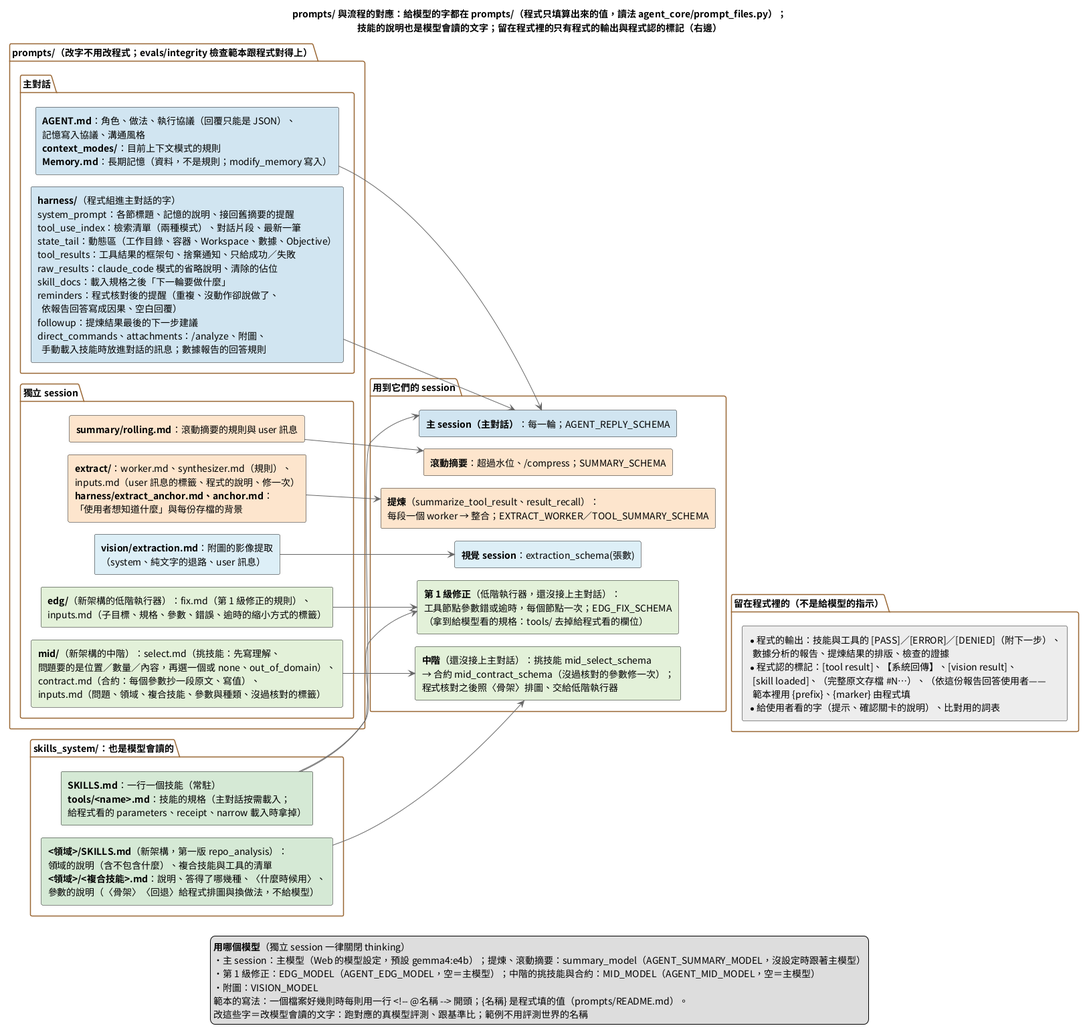
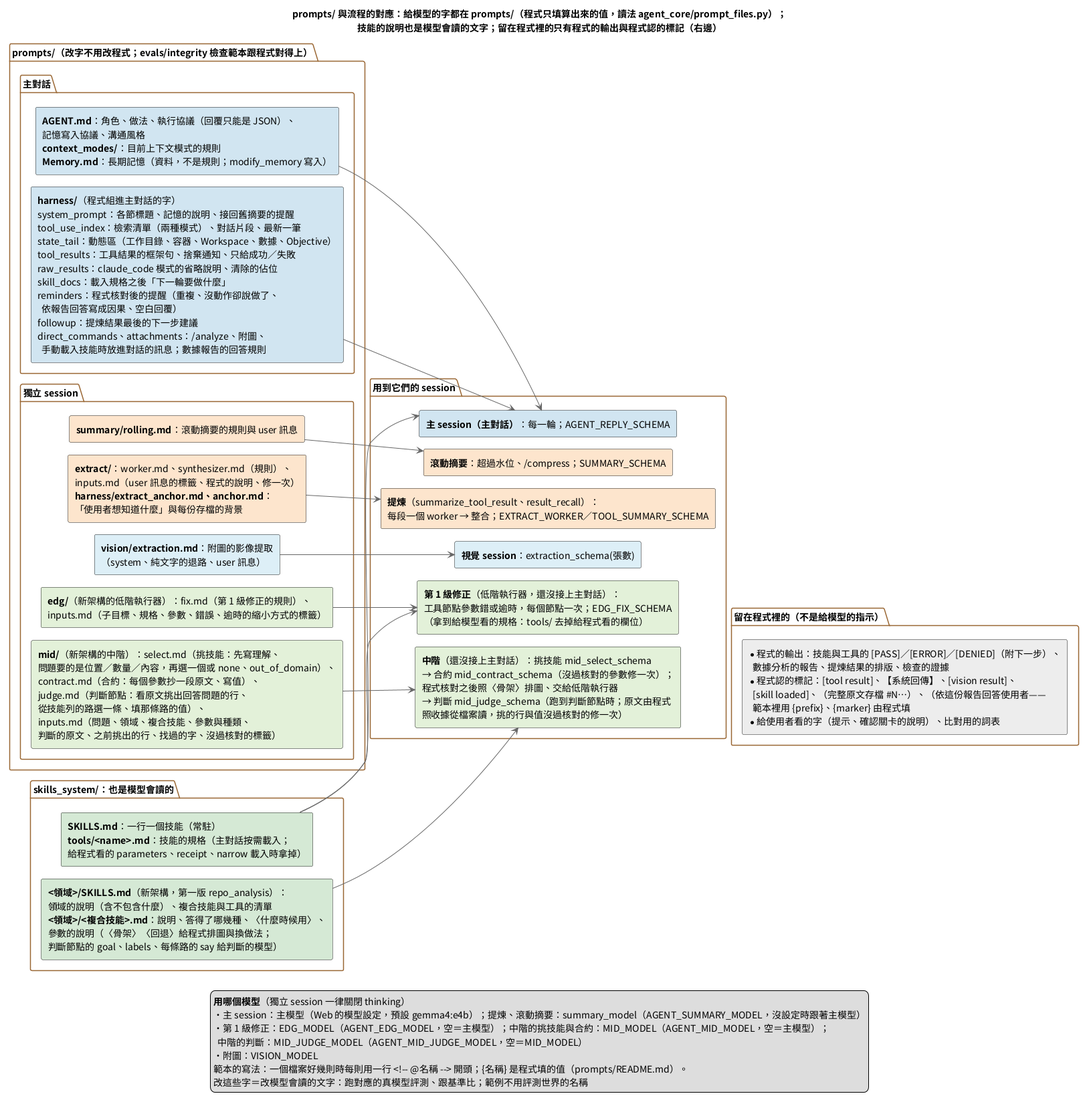
Enhance documentation and self-test assertions
- Updated the documentation for the fourth step draft, detailing the high-level integration with the main dialogue and outlining the necessary components and processes.
- Added assertions in the self-test for the `ca` function to ensure that English phrases can include spaces and that invalid characters (like '|') are correctly flagged in error messages.

Changed region(s): [[0.0, 0.0, 0.803, 0.991], [0.6485, 0.5265, 1.0, 0.7123], [0.9883, 0.6813, 1.0, 0.7123]]

diff --git a/evals/mid/selftest.py b/evals/mid/selftest.py
@@ -228,6 +228,10 @@ def main():
         assert ca({"name": "path", "type": "path"}, "src/beta/", work) == ("src/beta", None)
         assert "找不到" in ca({"name": "path", "type": "path"}, "nowhere", work)[1]
         assert ca({"name": "n", "type": "name"}, "a.b", work)[1] and ca({"name": "n", "type": "names"}, "a、b", work) == (["a", "b"], None)
+        words = {"name": "w", "type": "words"}
+        assert ca(words, "frame id、cam_driver", work) == (["frame id", "cam_driver"], None), "搜尋的字：英文的詞組中間可以有空白"
+        bad = ca(words, "a|b", work)[1]
+        assert bad and "不含 |" in bad and "不含空白" not in bad, bad
 
     def t_expand():
         nodes = [{"id": "f", "if": "files", "tool": "find_file", "args": ["{files}", "{path}"]},

diff --git a/agent_core/mid.py b/agent_core/mid.py
@@ -471,7 +471,7 @@ def check_answer(p, answer, cwd):
     if t == "words":
         items = judge.words_of(a)
         ok = items and all(judge.WORD.match(x) and not x.startswith("-") for x in items)
-        return (items, None) if ok else (None, "每一個字不含空白與 |（好幾個用「、」分開）")
+        return (items, None) if ok else (None, "每一個字只用文字、數字與 . / : @ ~ -（英文的詞組中間可以有一個空白），不以 - 開頭、不含 | 與括號；好幾個用「、」分開")
     return a, None
 
 

diff --git a/doc/架構說明.md b/doc/架構說明.md
@@ -241,22 +241,23 @@ web_console.py    → web_app/server.py 的 main()                   （python3 
 | `archive.py` | 181 | `ArchiveMixin`：原文存檔 `_archive_tool_result`（有收據時另存 `<…>.receipt.json`，`receipt_file`）、附圖分析存檔 `archive_vision_result`、`index.md`（寫入上鎖 `ARCHIVE_LOCK`）、保留上限 `_prune_tool_results`（工具回傳、對話片段、附圖分析分開算；照編號排；收據一起刪 `_remove_with_receipt`）、`_max_archived_id`（跨 session 續編）、`result_file_path`（Web 開原文用） |
 | `trajectory.py` | 125 | `TrajectoryMixin`：`_next_id`（全域配號）、`_record_trajectory`（每執行一支腳本記一筆、有收據時記摘要、觸發存檔）、起點（/clear）、`/trajectory` 的顯示；同時追加到 `logs/trajectory.jsonl` |
 | `skill_spec.py` | 121 | 技能規格裡給程式看的部分（frontmatter 裡一行 JSON 的 `parameters`、`receipt`、`narrow`，複合技能另有 `topology`、`answers` 與正文的〈骨架〉〈回退〉，`MACHINE_SECTIONS`）：`for_model`（交給模型前拿掉）、`contract`（讀成 dict）、`script`（技能執行的腳本）、`sections`（正文的各節）、`composite`（複合技能讀成 dict）；純函式 |
-| `edg.py` | 663 | 新架構的低階執行器（第 15 節）：`validate`（檢查圖）、`Executor`（`start`／`resume`：照圖執行、守門、第 1 級、往上交、存檔；`replan`：中階的第 2 級換成新的圖，跑過的不重跑）、`ModelFixer`（第 1 級修正的模型呼叫）、`parse`（腳本的 `parse_args`）、`narrowed`／`widened`（核對修正）；還沒接上主對話 |
-| `mid.py` | 823 | 新架構的中階（第 16 節）：`load_domain`（領域的 `SKILLS.md` 與複合技能）、`validate_skill`（複合技能的規格寫得對不對）、`expand_nodes`（〈骨架〉代入參數排成圖）、`verify_param`／`check_answer`（合約的值與使用者的回答由程式核對）、`Worker`（`start`／`resume`：挑技能、合約、補參數、交給低階、第 2 級、報告、存檔）、`ModelCaller`（挑技能與合約的模型呼叫）、`REPORTERS`（照收據整理報告的工具）；還沒接上主對話 |
+| `edg.py` | 666 | 新架構的低階執行器（第 15 節）：`validate`（檢查圖）、`Executor`（`start`／`resume`：照圖執行、守門、第 1 級、往上交、存檔；`replan`：中階的第 2 級與判斷換成新的圖，跑過的不重跑，重跑的收據照版本另存）、`ModelFixer`（第 1 級修正的模型呼叫）、`parse`（腳本的 `parse_args`）、`narrowed`／`widened`（核對修正）；還沒接上主對話 |
+| `mid.py` | 1273 | 新架構的中階（第 16 節）：`load_domain`（領域的 `SKILLS.md` 與複合技能；換技能的對象與參數的對應 `_switch_problems`）、`validate_skill`（複合技能的規格寫得對不對，含判斷節點 `_judgment_problems`）、`expand_nodes`（〈骨架〉代入參數排成圖）、`verify_param`／`check_answer`（合約的值與使用者的回答由程式核對）、`Worker`（`start`／`resume`：挑技能、合約、補參數、交給低階、第 2 級與換技能 `_switch`、判斷節點 `_judgment`（交給模型的原文、挑行選路 `_judge`、選的路會不會有新的結果 `_stale`、接著排下一版 `_next_round`）、報告、存檔）、`ModelCaller`（挑技能、合約與判斷的模型呼叫）、`REPORTERS`（照收據整理報告的工具）；還沒接上主對話 |
+| `judge.py` | 263 | 新架構的中階的判斷節點：原文與核對（第 16 節）——`rows`（照收據從檔案讀原文的行：search_text 的命中與前後行、view_file 看的那一段；不解析給模型的文字）、`select`／`render`（交給模型的原文：含最多個搜尋字的命中先放，最多 `MID_JUDGE_CHARS` 字，放不下的寫明省略幾行）、`check_line`（挑的行的片段在原文的某一行：不看格式、內容一樣的行用行號分；整行由程式填）、`check_params`（分支的參數在原文裡）；只讀檔案，不用 agent |
 | `compression.py` | 492 | `CompressionMixin`：`_split_for_compression`（保留區切點）、`summarize_messages`（滾動摘要 session）、使用者原話與對話片段存檔、`compress_context_to_file`、背景壓縮、`ensure_context_budget`（硬水位）、`_load_latest_summary_state`（啟動時接回） |
 | `model_caps.py` | 52 | 模型能力（Ollama `/api/show` 的 capabilities，依名稱快取）：`supports_thinking`、`think_arg`（使用者打開而且模型支援才送 think=True）、`thinking_text`（回應裡的思考內容）。主對話的 thinking 開關與 Web 的 🧠 設定都經過它 |
 | `perf.py` | 57 | `PerfMixin`：`_timed_chat`（獨立 session 呼叫模型都走這裡）、`_perf_record`（寫 `logs/perf.jsonl`） |
 | `turn.py` | 131 | CLI 與 Web 共用的回合函式：`_content_for_context`（工具回傳進主對話的幾條路）、`oversized_notice`、`context_kind`、`after_turn_compression`（軟水位）、`_append_discarded_tool_result` |
 | `protocol.py` | 112 | 回覆協議與訊息包裝：`parse_agent_reply`、`action_text`、`tool_result_message`、`attach_skill_docs`、`is_exempt_result` |
 | `prompt_files.py` | 82 | 讀 `prompts/` 的範本：`load(路徑, 段名, 名稱=值…)`——一個檔案好幾則時每則用 `<!-- @名稱 -->` 開頭、`{名稱}` 一次填完（其他大括號照留）、讀不到回空字串、檔案改了就重讀；`sections`、`fill`、`exists`。只依賴 `config`；寫法見 `prompts/README.md` |
-| `schemas.py` | 135 | Ollama `format=` schema：`AGENT_REPLY_SCHEMA`、`SUMMARY_SCHEMA`、`TOOL_SUMMARY_SCHEMA`（提煉的整合；事實附行號）、`EXTRACT_WORKER_SCHEMA`、`EDG_FIX_SCHEMA`（第 1 級修正：理由、修不修得好、參數）、`mid_select_schema`（中階挑技能：理解、問題要的種類、技能只能是清單裡的）、`mid_contract_schema`（合約：每個參數的原文與值），以及數據分析用的 |
-| `config.py` | 288 | 所有常數與環境變數（第 10 節），以及 `PROJECT_ROOT`（專案根目錄，`skills_system/`、`logs/` 都以它為準）、`PROMPTS_DIR`（`prompts/`：給模型的文字） |
+| `schemas.py` | 169 | Ollama `format=` schema：`AGENT_REPLY_SCHEMA`、`SUMMARY_SCHEMA`、`TOOL_SUMMARY_SCHEMA`（提煉的整合；事實附行號）、`EXTRACT_WORKER_SCHEMA`、`EDG_FIX_SCHEMA`（第 1 級修正：理由、修不修得好、參數）、`mid_select_schema`（中階挑技能：理解、問題要的種類、技能只能是清單裡的）、`mid_contract_schema`（合約：每個參數的原文與值）、`mid_judge_schema`（判斷：理解、挑的行（來源、檔案、行號、片段、標籤，都只能是列出的）、選的路只能是列的、那條路的值；修的時候只放沒過的部分），以及數據分析用的 |
+| `config.py` | 298 | 所有常數與環境變數（第 10 節），以及 `PROJECT_ROOT`（專案根目錄，`skills_system/`、`logs/` 都以它為準）、`PROMPTS_DIR`（`prompts/`：給模型的文字） |
 | `analysis_job.py` | 1054 | `AnalysisMixin`：數據分析（`analysis_run` 偽技能，全部由程式做）——事實（程式量全部 Topic）、重要的時間點與重點（照規則寫）、報告、設定、進度、job 檔案（`JobStore`，見第 13 節） |
 | `claims.py` | 535 | 句子的意思跟事實核對（主對話依數據分析報告的回答）：`reply_problems`、`problems`；純函式，只依賴 facts（見 13.3） |
 | `cli.py` | 355 | CLI：`main()`（slash 指令、回合迴圈、執行前確認、auto／hybrid／manual 決策）、`execute_turn`（一個回合）、`/analyze`（不經過模型選擇、直接執行） |
 
 依賴方向是單向的：`config`、`schemas`、`jobstore`、`claims`、`model_caps`、`skill_spec` 不依賴其他模組，`prompt_files` 只依賴 `config`、`protocol` 只依賴這兩個；給模型的字由各模組用 `prompt_files` 從 `prompts/` 讀（`vision/extraction.py`、`web_app/` 也是）；各 mixin 只依賴這些（`tool_summary` 用 `extract`、`turn_guard` 用 `claims`），另外 `compression`、`context_mode` 借用 `tool_use_index.tidy_hint` 這個純函式（`archive` 借用 `result_kind`；`tool_use_index` 寫入時在函式裡借用 `archive.ARCHIVE_LOCK`），mixin 類別之間不互相 import；`agent` 組合所有 mixin；`turn`、`cli` 在最上層。沒有循環 import。`edg` 只依賴 `config`、`schemas`、`jobstore`、`prompt_files`、`skill_spec`，透過傳進來的 agent 用 `run_script`、`guard_check`、`_timed_chat`；
-`mid` 另外只多依賴 `edg`（工具的執行全部交給它），自己透過 agent 用 `_timed_chat`。
+`mid` 另外只多依賴 `edg`（工具的執行全部交給它）與 `judge`（只依賴 `config`、`prompt_files`），自己透過 agent 用 `_timed_chat`。
 技能那一側只借用 `skills_system/scripts/` 的共用模組（`_results_common`、`_shell_common`）與各腳本的參數解析（關卡與低階執行器用）。
 
 ### 4.2 `web_app/`：網頁介面
@@ -270,8 +271,8 @@ web_console.py    → web_app/server.py 的 main()                   （python3 
 | `analysis.py` | 139 | 📊 數據分析面板的後端：`analysis_state`（`/api/analysis/state` 輪詢）、`analysis_file`、`analysis_action`（設定、目前的數據）、`/analysis*` 指令；`/analyze` 與 📊 分析模式的回合在 `flows.run_analysis_turn` |
 | `models.py` | 62 | 「🧠 模型」設定：`model_view`（主對話的模型與 thinking、Ollama 裡的模型、每個模型支不支援 thinking）、`model_update`（一次套用、存檔）、`describe`；`GET`／`POST /api/models` 與 `/model`、`/think` 指令共用 |
 | `static/index.html` | 1038 | 網頁本身（HTML／CSS／JS 都在這一個檔案，無外部依賴）；執行前確認列、標題列的上下文模式、目標容器、ROS 2 Workspace、目前的數據、「🔗 決策圖」的連結；右欄的「📊 數據分析」面板（`renderAnalysisPanel`）與檔案檢視視窗 |
-| `topology.py` | 322 | 🔗 決策圖的後端（新架構的中階與低階的工作，唯讀；不 import `state`）：`sources`（正式的 `logs/` 與評測結果）、`jobs`（中階的工作，加上沒有被中階用到的低階工作）、`job_view`（一個工作整理成每一版的圖：當時每個節點的狀態與嘗試，重排換掉的從低階的 `replans` 找回 `_state_at`；跟上一版比；回退與問使用者 `_marks`）、`receipt`（收據全文）；路徑由程式組，不合規則回 None（路由回 404）。`GET /api/topology/sources`、`jobs?src=`、`job?src=&ref=`、`receipt?src=&ref=&file=` |
-| `static/topology.html` | 873 | 決策圖的頁面 `/topology`（無外部依賴）：工作清單、流程列（挑技能 → 合約 → 補參數 → 每一版的圖 → 結果）、分層排的決策圖（HTML 節點＋SVG 邊；回退與問使用者畫成虛線）、點節點／邊／流程的細節；網址帶 `src`、`ref`、`v` |
+| `topology.py` | 345 | 🔗 決策圖的後端（新架構的中階與低階的工作，唯讀；不 import `state`）：`sources`（正式的 `logs/` 與評測結果）、`jobs`（中階的工作，加上沒有被中階用到的低階工作）、`job_view`（一個工作整理成每一版的圖：當時每個節點的狀態與嘗試，重排換掉的從低階的 `replans` 找回 `_state_at`；跟上一版比；回退、換技能與問使用者 `_marks`；每一版跑完時的判斷 `_judgments`，判斷加的節點在之後的每一版都從那個判斷節點畫虛線）、`receipt`（收據全文）；路徑由程式組，不合規則回 None（路由回 404）。`GET /api/topology/sources`、`jobs?src=`、`job?src=&ref=`、`receipt?src=&ref=&file=` |
+| `static/topology.html` | 986 | 決策圖的頁面 `/topology`（無外部依賴）：工作清單、流程列（挑技能 → 合約 → 補參數 → 每一版的圖（含判斷）→ 結果）、分層排的決策圖（HTML 節點＋SVG 邊；回退與問使用者畫成虛線；判斷節點是另一種節點 `judgmentNodeHtml`，從它到它加的節點畫青色虛線）、點節點／邊／流程的細節（判斷：挑出的行、沒過核對的、選的路與值、模型呼叫，`judgmentDetailHtml`）；網址帶 `src`、`ref`、`v` |
 
 各模組共用 `state.py` 裡的同一批物件（都是可變的 dict／物件，沒有任何地方重新賦值），所以拆開後大家看到的仍是同一份狀態。依賴方向：`flows` 與 `commands` 各自只依賴 `state`（和 `agent_core`），`server` 再把三者接起來。
 
@@ -279,7 +280,7 @@ web_console.py    → web_app/server.py 的 main()                   （python3 
 
 | 資料夾 | 內容 |
 |---|---|
-| `prompts/` | 給模型的文字，**全部**在這裡（可以直接改，不用改程式；每一個檔案給哪一種 session 見 `prompts/README.md` 與第 7 節的圖）：`AGENT.md`（主對話的 system prompt）、`Memory.md`（長期記憶）、`context_modes/`（兩種上下文模式的規則）、`harness/`（程式組進主對話的字：system prompt 各節、檢索清單、動態區、工具結果的包裝、載入規格的下一步、程式核對後的提醒、提煉的下一步建議、直接指令與附圖的訊息）、`summary/`（滾動摘要）、`extract/`（工具回傳的提煉：worker、整合、user 訊息的標籤）、`vision/`（附圖的影像提取）、`edg/`（低階執行器的第 1 級修正）、`mid/`（中階的挑技能與合約）。讀法在 `prompt_files.py`；留在程式裡的只有程式的輸出（工具結果、報告、`[ERROR]`）、程式認的標記與給使用者看的字。讀不到時程式不會報錯（內容是空的）：`evals/integrity/selftest.py` 檢查程式用到的每一則都在、填的名稱範本裡都有、沒有沒人用的一則 |
+| `prompts/` | 給模型的文字，**全部**在這裡（可以直接改，不用改程式；每一個檔案給哪一種 session 見 `prompts/README.md` 與第 7 節的圖）：`AGENT.md`（主對話的 system prompt）、`Memory.md`（長期記憶）、`context_modes/`（兩種上下文模式的規則）、`harness/`（程式組進主對話的字：system prompt 各節、檢索清單、動態區、工具結果的包裝、載入規格的下一步、程式核對後的提醒、提煉的下一步建議、直接指令與附圖的訊息）、`summary/`（滾動摘要）、`extract/`（工具回傳的提煉：worker、整合、user 訊息的標籤）、`vision/`（附圖的影像提取）、`edg/`（低階執行器的第 1 級修正）、`mid/`（中階的挑技能、合約與判斷）。讀法在 `prompt_files.py`；留在程式裡的只有程式的輸出（工具結果、報告、`[ERROR]`）、程式認的標記與給使用者看的字。讀不到時程式不會報錯（內容是空的）：`evals/integrity/selftest.py` 檢查程式用到的每一則都在、填的名稱範本裡都有、沒有沒人用的一則 |
 | `skills_system/` | 技能：`SKILLS.md`（索引，常駐 system prompt）、`tools/<name>.md`（規格，按需載入；第一版領域的規格另有給程式看的 `parameters`、`receipt`）、`scripts/`（腳本與共用模組；`_receipt_common.py` 是收據的共用層，見 3.8）；新架構的領域 `<領域>/`（`SKILLS.md`：領域的說明、複合技能與工具的清單；複合技能的規格；中階讀，第 16 節），第一版是 `repo_analysis/` |
 | `vision/` | 視覺模態：擷取、影像處理、推論、結構化提取、Web 的框選（`web/`）；`sniper.py` 是獨立的框選小工具（`python3 -m vision.sniper`） |
 | `evals/` | 評測（第 12 節）：`chat/`、`skills/`、`analysis/`、`datagen/`、`ops/`、`extract/`、`repo/`、`edg/`、`mid/`、`integrity/`；`phase_check.py`（每個階段結束時跑）與 `baselines/`（基準，進版控）；結果寫到 `evals/results/`（.gitignore） |
@@ -344,9 +345,10 @@ Ollama 只重用跟上一次請求相同的開頭，從第一個不同的 token 
 | 第 1 級修正（新架構的低階執行器） | `edg.ModelFixer`（`prompts/edg/fix.md`、`inputs.md`） | 決策圖的工具節點參數錯或逾時、還沒修過時（每個節點一次；第 15 節） | 給模型看的工具規格＋錯誤的原文＋子目標與這一步的目的＋這一次的參數（逾時另附規格 `narrow` 列的縮小方式）；不給使用者的原始問題 | `EDG_FIX_SCHEMA`（程式再核對：有改、沒有多包引號、過得了 `parse_args`、逾時照 `narrow` 縮小、範圍不換成上層） |
 | 挑技能（新架構的中階） | `mid.Worker._select`（`prompts/mid/select.md`、`inputs.md`） | 中階收到問題時（第 16 節） | 問題（與子目標）＋領域的說明＋每個複合技能的說明、答得了的種類、〈什麼時候用〉 | `mid_select_schema`（技能只能是清單裡的或 none、out_of_domain；程式再核對技能答得了問題要的每一種） |
 | 合約（新架構的中階） | `mid.Worker._contract_call`（`prompts/mid/contract.md`、`inputs.md`） | 挑好技能之後；沒過核對的參數修一次（`contract_fix`） | 問題（與子目標）＋技能的說明＋每個參數的名稱、種類、說明、預設值（修的時候只給沒過的參數與沒過的原因） | `mid_contract_schema`（每個參數的原文與值；程式再核對原文在問題裡、值對得上原文） |
+| 判斷（新架構的中階） | `mid.Worker._judge`（`prompts/mid/judge.md`、`inputs.md`；原文與核對在 `judge.py`） | 低階跑到判斷節點時（每個工作最多 `MID_JUDGE_MAX` 次）；挑的行或參數沒過核對時修一次（`judge_fix`） | 問題（與子目標）＋判斷節點的 goal＋之前的判斷挑出的行＋這個工作已經找過的字＋原文（照收據從檔案讀：來源 #編號、檔案、行號、內容，最多 `MID_JUDGE_CHARS` 字，省略的寫明）＋可以標的種類＋看完之後可以選的路與要填的值（修的時候再附沒過的原因） | `mid_judge_schema`（理解、挑的行、選的路、那條路的值、理由；程式再核對片段在原文的某一行（整行由程式填）、值在原文裡、選的路會有新的結果） |
 | 視覺 | `web_app/flows.py` 的 `_run_vision_subsession`（`vision.extract` → `vision.analyze`；`prompts/vision/extraction.md`） | Web 附圖時 | 影像＋來源（框選／檔名）＋使用者的說明（關注方向、命名提示） | `extraction_schema(張數)`，排成文字（重點；每張的文字→畫面→個體→背景；線索；無法判斷）後以 `[vision result]` 附在訊息後，並存成 `#編號`、記進檢索清單（`index_hint`） |
 
-前三種用 `summary_model`（`AGENT_SUMMARY_MODEL`，預設同主模型；沒有設定時「跟著主模型」，Web 的 🧠 換主模型時一起換）；第 1 級修正用 `EDG_MODEL`（`AGENT_EDG_MODEL`，空＝主模型）、中階用 `MID_MODEL`（`AGENT_MID_MODEL`，空＝主模型）；全部關閉 thinking（`think=False`）。提煉分段時一次會跑段數＋1（整合修一次再＋1）個 session，`perf.jsonl` 分別記成 `tool_summary_worker`／`_synth`／`_repair`（recall 同理）。與主模型相同時，Ollama 單 slot 會讓它們跟主對話依序執行，每次多等幾秒，而且會把主對話的 KV cache 洗掉，下一次主對話整段重算。除了視覺，都經過 `_timed_chat()` 記進 `logs/perf.jsonl`。
+前三種用 `summary_model`（`AGENT_SUMMARY_MODEL`，預設同主模型；沒有設定時「跟著主模型」，Web 的 🧠 換主模型時一起換）；第 1 級修正用 `EDG_MODEL`（`AGENT_EDG_MODEL`，空＝主模型）、中階的挑技能與合約用 `MID_MODEL`（`AGENT_MID_MODEL`，空＝主模型）、判斷用 `MID_JUDGE_MODEL`（`AGENT_MID_JUDGE_MODEL`，空＝中階的模型）；全部關閉 thinking（`think=False`）。提煉分段時一次會跑段數＋1（整合修一次再＋1）個 session，`perf.jsonl` 分別記成 `tool_summary_worker`／`_synth`／`_repair`（recall 同理）。與主模型相同時，Ollama 單 slot 會讓它們跟主對話依序執行，每次多等幾秒，而且會把主對話的 KV cache 洗掉，下一次主對話整段重算。除了視覺，都經過 `_timed_chat()` 記進 `logs/perf.jsonl`。
 
 `prompts/` 的每一個檔案給哪一種 session、模型還會讀哪些文字（技能的規格）、哪些留在程式裡（程式的輸出與程式認的標記）——細節見 `prompts/README.md`：
 
@@ -364,8 +366,8 @@ Ollama 只重用跟上一次請求相同的開頭，從第一個不同的 token 
 | `logs/tool_results/tools_use_index.md` | 大量回傳、附圖分析與被壓縮的對話片段的一句話描述，整句不截斷；system prompt 分兩區顯示：工具回傳與〔附圖分析〕最近 30 筆、對話片段最近 10 份（原始檔已經被清掉的不列；只讀檔案最後 256 KB） | `_append_tool_use_index` | 永久累加 |
 | `logs/extract_jobs/<編號>/` | 每一次工具回傳的提煉與 recall：`job.json`（切段、每段的結果與拿掉的事實、整合、修正、最後的重點）、`calls.jsonl`（每次模型呼叫的 prompt 與原文回覆）、`events.jsonl`（進度） | `extract.Extraction`（`JobStore`） | 最近 500 次（`EXTRACT_JOBS_KEEP`） |
 | `logs/analysis_jobs/<編號>/` | 數據分析的 job（見 13.4） | `analysis_job.py`（`JobStore`） | 最近 300 次（`ANALYSIS_JOBS_KEEP`） |
-| `logs/edg_jobs/<編號>/` | 低階執行器的每一次執行：`job.json`（圖、每個節點與實例的狀態、每次嘗試的參數與收據摘要、`#編號`、修正、確認關卡的決定 `decisions`；中階重排過的另有 `replans`：每次保留、重跑、新加、拿掉的節點與它們原本的狀態）、`receipts/`（每次嘗試的收據全文）、`events.jsonl`（進度）、`calls.jsonl`（修正的模型呼叫） | `edg.Executor`（`JobStore`） | 最近 300 次（`EDG_JOBS_KEEP`） |
-| `logs/mid_jobs/<編號>/` | 中階的每一次：`job.json`（挑技能的理解與理由、合約的參數與原文、沒過核對的、自己補的與查的、每一版的圖 `graphs`（為什麼排這一版、跑完時每個節點的狀態與 `#編號`）、用過的回退、要問使用者的事、問過使用者的紀錄 `asked`（每次的問題、候選、不合法的回答、最後的回答或同不同意）、結果）、`report.md`（程式整理的報告）、`events.jsonl`、`calls.jsonl`（挑技能與合約的模型呼叫）；工具的執行在它的 `edg_job`（與查路徑的 `fetches`）。Web 的決策圖（`web_app/topology.py`）用這兩種 `job.json` | `mid.Worker`（`JobStore`） | 最近 300 次（`MID_JOBS_KEEP`） |
+| `logs/edg_jobs/<編號>/` | 低階執行器的每一次執行：`job.json`（圖、每個節點與實例的狀態、每次嘗試的參數與收據摘要、`#編號`、修正、確認關卡的決定 `decisions`；中階重排過的另有 `replans`：每次保留、重跑、新加、拿掉的節點與它們原本的狀態）、`receipts/`（每次嘗試的收據全文：`<節點>_<實例>_<嘗試>.json`，重排之後跑的加上第幾版 `_v2`…，不蓋掉前一版的）、`events.jsonl`（進度）、`calls.jsonl`（修正的模型呼叫） | `edg.Executor`（`JobStore`） | 最近 300 次（`EDG_JOBS_KEEP`） |
+| `logs/mid_jobs/<編號>/` | 中階的每一次：`job.json`（挑技能的理解與理由、合約的參數與原文、沒過核對的、自己補的與查的、每一版的圖 `graphs`（為什麼排這一版、跑完時每個節點的狀態與 `#編號`）、用過的回退、換技能 `switched`（從哪個換到哪個、哪個回退、帶過去的參數）、判斷 `judgments`（每一次：交給模型的原文多少與省略的、挑出的行（檔案、行號、整行、#編號、標籤）與沒過核對的、選的路與值、結果）、要問使用者的事、問過使用者的紀錄 `asked`（每次的問題、候選、不合法的回答、最後的回答或同不同意）、結果）、`report.md`（程式整理的報告）、`events.jsonl`、`calls.jsonl`（挑技能、合約與判斷的模型呼叫）；工具的執行在它的 `edg_job`（與查路徑的 `fetches`）。Web 的決策圖（`web_app/topology.py`）用這兩種 `job.json` | `mid.Worker`（`JobStore`） | 最近 300 次（`MID_JOBS_KEEP`） |
 | `logs/model_settings.json`、`logs/analysis_settings.json` | Web 的 🧠 設定的主對話模型與 thinking；📊 面板的數據根目錄與預設容器（只存跟預設不同的值） | `save_model_settings`、`save_analysis_settings` | 每次設定覆寫 |
 | `logs/trajectory.jsonl` | 每次執行與起點（/clear） | `_append_trajectory_log` | 永久累加 |
 | `logs/summary_*.md`／`.json` | 滾動摘要歸檔；`.json` 另存使用者原話與對話片段編號；啟動時接回最新一份 | `_archive_summary` | 最近 30 份 |
@@ -418,6 +420,10 @@ Ollama 只重用跟上一次請求相同的開頭，從第一個不同的 token 
 | `MID_REPLAN_MAX` | 3 | — | 中階一個工作最多重排幾次（第 2 級的回退加節點、使用者回答之後重新排），再要重排就熔斷 |
 | `MID_MODEL` | 空＝主模型 | `AGENT_MID_MODEL` | 中階挑技能與合約用的模型 |
 | `MID_REPORT_LINES` | 120 | — | 中階的報告每一節最多列幾行（多的看 `#編號` 的原文，報告寫明省略了幾行） |
+| `MID_JUDGE_MAX` | 4 | — | 判斷節點每個工作最多判斷幾次（另外算，不佔 `MID_REPLAN_MAX`），用完了還要接著做就熔斷 |
+| `MID_JUDGE_CHARS`／`MID_JUDGE_LINE_CHARS`／`MID_JUDGE_LINES` | 16000／400／12 | — | 交給判斷的原文最多幾個字（放不下的寫明省略了哪些檔案幾行）／原文的一行最多幾個字／一次最多挑幾行 |
+| `MID_JUDGE_MODEL` | 空＝`MID_MODEL` | `AGENT_MID_JUDGE_MODEL` | 判斷用的模型（`MID_MODEL` 也空就是主模型） |
+| `MID_SELECT_PREDICT`／`MID_CONTRACT_PREDICT`／`MID_JUDGE_PREDICT` | 600／900／2000 | — | 中階挑技能、合約、判斷的輸出上限（`num_predict`） |
 | `TOOL_USE_INDEX_SHOW` | 30 | `AGENT_TOOL_USE_INDEX_SHOW` | 檢索清單顯示筆數；0 關閉顯示（寫入不受影響） |
 | `TOOL_USE_INDEX_HINT_TARGET` | 60 | — | prompt 要求的描述長度（中文字數，一段英數算 1 字）；只是給模型的目標，程式不截斷 |
 | `CONVERSATION_ARCHIVES_SHOW` | 10 | `AGENT_CONVERSATION_ARCHIVES_SHOW` | system prompt「過去的對話片段」顯示幾份 |
@@ -462,8 +468,8 @@ Ollama 只重用跟上一次請求相同的開頭，從第一個不同的 token 
 | 改提煉結尾的下一步建議 | `tool_summary.py` 的 `_followup_guidance` |
 | 寫新技能的腳本與規格 | `doc/技能撰寫規範.md`（輸出的結構、[ERROR] 的下一步、不讀標準輸入、逾時、狀態標記放最後）；測試放 `evals/skills/<組>_test.py` |
 | 改低階執行器（圖的檢查、守門、第 1 級的核對、重排、存檔） | `agent_core/edg.py`（第 15 節）；修正的說法在 `prompts/edg/`；測試 `evals/edg/selftest.py`，真模型 `evals/edg/run.py` |
-| 改中階（挑技能、合約的核對、補參數、排圖、第 2 級、報告） | `agent_core/mid.py`（第 16 節）；挑技能與合約的說法在 `prompts/mid/`；測試 `evals/mid/selftest.py`，真模型 `evals/mid/run.py` |
-| 新增或改複合技能、領域 | `skills_system/<領域>/SKILLS.md` 一行＋`<領域>/<名稱>.md`（寫法：`doc/技能撰寫規範.md` 1.2；載入時 `mid.validate_skill` 檢查；`evals/mid/selftest.py` 核對 `repo_analysis` 的規格過得了，新的領域也加進去） |
+| 改中階（挑技能、合約的核對、補參數、排圖、第 2 級、換技能、判斷、報告） | `agent_core/mid.py`（第 16 節；判斷的流程在 `Worker._judgment`）；判斷的原文怎麼讀、怎麼放進上限、片段與值怎麼核對在 `agent_core/judge.py`；挑技能、合約與判斷的說法在 `prompts/mid/`（`judge.md`、`inputs.md` 的 `judge_*`、`reject_*`）；測試 `evals/mid/selftest.py`，真模型 `evals/mid/run.py` |
+| 新增或改複合技能、領域 | `skills_system/<領域>/SKILLS.md` 一行＋`<領域>/<名稱>.md`（寫法：`doc/技能撰寫規範.md` 1.2，含〈骨架〉的判斷節點與〈回退〉的換技能；載入時 `mid.validate_skill`、`_switch_problems` 檢查；`evals/mid/selftest.py` 核對 `repo_analysis` 的規格過得了，新的領域也加進去） |
 | 改收據的欄位、錯誤的種類 | 共用層 `skills_system/scripts/_receipt_common.py`、各腳本的 `fail`／`result`、規格的 `receipt`（`evals/skills/receipt_test.py` 核對兩者一致）；harness 這一側在 `dispatch.py` 的 `_exec_script`、`archive.py`、`trajectory.py`（3.8） |
 | 改檢索清單的顯示或判斷規則 | `tool_use_index.py` 的 `_tool_use_index_block` |
 | 改 recall 的錨點或多份讀取 | `tool_summary.py` 的 `_result_recall` |
@@ -472,7 +478,7 @@ Ollama 只重用跟上一次請求相同的開頭，從第一個不同的 token 
 | 改回覆協議 | `schemas.py` 的 `AGENT_REPLY_SCHEMA`、`protocol.py` 的 `parse_agent_reply`、`AGENT.md`〈執行協議〉第 3 條 |
 | 改附圖的視覺提取（提取順序、使用者說明的用法、輸出格式） | `vision/extraction.py`（`EXTRACTION_SYSTEM_PROMPT`、`extraction_schema`、`render_extraction`）；交給 main session 的包裝與用法說明在 `web_app/flows.py` 的 `_run_vision_subsession` |
 | 改 Web 畫面 | `web_app/static/index.html`（HTML／CSS／JS 都在這一個檔案）；後端路由在 `web_app/server.py` |
-| 改 Web 的決策圖（新架構的工作怎麼畫、點了看什麼） | 資料怎麼整理在 `web_app/topology.py`（`job_view`；來源與路徑的規則在 `_src_dir`、`_job_dir`），畫法在 `web_app/static/topology.html`（版面 `layout`、節點 `nodeHtml`、細節 `renderDetail`）；測試在 `evals/mid/selftest.py`（`t_topology_view`、`t_topology_http`） |
+| 改 Web 的決策圖（新架構的工作怎麼畫、點了看什麼） | 資料怎麼整理在 `web_app/topology.py`（`job_view`；來源與路徑的規則在 `_src_dir`、`_job_dir`），畫法在 `web_app/static/topology.html`（版面 `layout`、節點 `nodeHtml`、判斷節點 `judgmentNodeHtml`、細節 `renderDetail`）；測試在 `evals/mid/selftest.py`（`t_topology_view`、`t_topology_http`、`t_topology_judgment`） |
 | 重畫文件的圖 | 改 `doc/diagrams/*.puml`，用本機的 PlantUML 重新產生 PNG（指令見〈[文件導覽](README.md)〉；不要用線上的 PlantUML 伺服器，圖的內容會離開這台機器） |
 
 改完先跑離線的 `python3 evals/phase_check.py`（約 2 分鐘）；行為有沒有變好，跑第 12 節的真模型評測（假 `ollama.chat` 的驗證做法見〈設計筆記與已知限制〉5.4）。
@@ -500,7 +506,7 @@ Ollama 只重用跟上一次請求相同的開頭，從第一個不同的 token 
 | `extract/` 提煉 | —（在 `chat/extract_selftest.py`） | `run.py`（已知答案的長輸出：車隊、20 萬字 Log、recall） | 找到幾個、多列幾個、數量、切段 |
 | `repo/` 真實專案（新架構的評測，2026-11-18） | `selftest.py`（核對的規則、每一題答得出來、人看過的真實回覆維持判斷、`answers.json` 跟快照一致、碰不到真的容器；在 `phase_check` 的離線組） | `run.py`（amr_base 固定在 `6d91797a` 的快照，30 題：五種各 5＋保留組 1；借用 `ops/worker.py` 跑一題，確認關卡一律拒絕、Docker 與調度系統的位址指走；`--rescore` 用存下來的回覆重新計分） | 在真實專案裡找檔案與計數、讀長文件、Python 的定義與呼叫、C++、跨檔案的調查；答案由程式從快照算（`questions.py` → `answers.json`），最後的回覆由程式核對（`checks.py`）。現在的版本只量一次當對照，新架構每一版跑 3 次之後才存基準（設計筆記 2.27） |
 | `edg/` 低階執行器（新架構，2026-11-18） | `selftest.py`（寫好的圖、假的修正模型：檢查圖、守門、帶入參數、第 1 級的核對、確認關卡停下來與接回、存檔；在 `phase_check` 的離線組） | `run.py`（第 1 級修正：一個工具節點故意錯一個參數，工作目錄是真實專案評測的快照；9 題＋保留組 2 題；`--rescore`；在 `phase_check --model`，基準 `edg.json`） | 修得好的有沒有修好（收據的欄位與範圍由程式核對）、修不好的（要換工具、要使用者決定）有沒有往上交 |
-| `mid/` 中階（新架構，2026-11-18） | `selftest.py`（假的模型、真的工具與低階執行器：領域與複合技能的檢查、合約的核對與修一次、自己查路徑與問使用者、排圖、第 2 級的回退與熔斷、報告、存檔；在 `phase_check` 的離線組） | `run.py`（題目沿用真實專案評測的 30 題，`cases.py` 標每一題該用的複合技能與參數；`--rescore`；在 `phase_check --model`，每個模型各跑 3 次，基準 `mid.json`） | 每一層分開量：挑技能（沒有技能做得到的要說 none）、合約（參數與原文）、最後的報告（`repo/checks.py`） |
+| `mid/` 中階（新架構，2026-11-18） | `selftest.py`（假的模型、真的工具與低階執行器：領域與複合技能的檢查、合約的核對與修一次、自己查路徑與問使用者、排圖、第 2 級的回退與熔斷、換技能、判斷節點（原文怎麼讀與放進上限、片段與值的核對、修一次、接著排、不收斂與上限）、報告、存檔、Web 的決策圖；在 `phase_check` 的離線組） | `run.py`（題目沿用真實專案評測的 30 題，`cases.py` 標每一題該用的複合技能與參數；`--rescore`；在 `phase_check --model`，每個模型各跑 3 次，基準 `mid.json`） | 每一層分開量：挑技能（沒有技能做得到的要說 none）、合約（參數與原文）、最後的報告（`repo/checks.py`） |
 | `integrity/` 評測的完整性 | `selftest.py` | — | 模型會讀的文字（技能規格、SKILLS.md、prompts、程式回給模型的字）沒有評測世界的名稱（從評測的來源自動取）；`prompts/` 的範本跟程式對得上（用到的每一則都在、填的名稱都有、沒有沒人用的）；讀範本；沒人用的程式（定義了沒人用的函式、類別、常數，import 了沒用的）；階段驗證的維運比對（只跑一部分時跟同一組情境比） |
 
 主對話的情境：外部世界（docker、ROS2、調度系統）用固定的假輸出，存檔工具、`modify_memory` 與本機檔案類技能真的執行；條件（`expect`）
@@ -747,7 +753,7 @@ Ollama 只重用跟上一次請求相同的開頭，從第一個不同的 token 
 **圖**（JSON）：`goal`（子目標）與 `nodes`。
 - 工具節點：`id`、`tool`（寫收據的技能）、`args`（字串，或 `{"from": 節點, "field": 收據項目的鍵}`：從前一個節點的收據帶入，每一項一個實例）、
   `depends_on`、`expect`（收據的狀態，預設 `["pass"]`；0 筆也算答案寫 `["pass", "empty"]`）、`complete`（要完整的結果）、`why`。
-- 判斷節點（`kind: judgment`，寫 `goal`）：圖的終點，交回中階。
+- 判斷節點（`kind: judgment`，寫 `goal`、`depends_on`）：圖的終點，交回中階（中階看完原文再決定要不要加節點、重排，第 16 節）。
 
 **流程**（`Executor.start(graph)`；停在確認關卡時 `resume(編號, approve)`）：
 1. `validate`：id、依賴、沒有循環；工具存在而且寫收據；帶入的來源在 `depends_on` 裡、欄位是來源工具規格 `receipt.items` 的鍵；判斷節點不被依賴。沒過就不執行（`invalid`）。
@@ -761,7 +767,7 @@ Ollama 只重用跟上一次請求相同的開頭，從第一個不同的 token 
    逾時只照規格 `narrow` 縮小、參數錯的修正不能把範圍（`narrow` 標 inside 的路徑）換成上層；過了才重跑。環境（env）、腳本的錯（parse）不修。
 5. 往上交：`status`（`done`、`judgment`、`stopped`、`need_user`、`invalid`）、每個節點與實例的狀態與原因、每次嘗試的收據摘要與 `#編號`、
    修正的紀錄、`stops`、`judgments`（附它要看的節點的 `#編號`）。
-6. 重排（`replan(編號, 新的圖)`，中階的第 2 級用）：同一個工作換成新的圖接著跑。定義（工具、參數、依賴、預期…）沒變、狀態已經是最後的、依賴的也都保留的節點沿用，其他的重跑；同一個工具＋同樣的參數之前成功過的（含重排前的）也沿用收據。每次重排記在 `replans`（保留、重跑、新加、拿掉的節點與它們原本的狀態）；新的圖沒通過檢查就不執行（`invalid`）。
+6. 重排（`replan(編號, 新的圖)`，中階的第 2 級、換技能與判斷用）：同一個工作換成新的圖接著跑。定義（工具、參數、依賴、預期…）沒變、狀態已經是最後的、依賴的也都保留的節點沿用，其他的重跑；同一個工具＋同樣的參數之前成功過的（含重排前的）也沿用收據。每次重排記在 `replans`（保留、重跑、新加、拿掉的節點與它們原本的狀態）；重排之後跑的收據檔名加上第幾版（`_v2`…），重跑同一個節點不會蓋掉前一版的（中階與決策圖照版本讀）；新的圖沒通過檢查就不執行（`invalid`）。
 
 **存檔**：`logs/edg_jobs/<編號>/`（第 8 節）。**常數**：`EDG_JOBS_KEEP`、`EDG_EACH_MAX`、`EDG_MODEL`（第 10 節）。
 **規格**：寫收據的腳本都有純函式 `parse_args`；逾時能縮小範圍的工具在規格寫 `narrow`（〈技能撰寫規範〉1.1）。
@@ -769,44 +775,80 @@ Ollama 只重用跟上一次請求相同的開頭，從第一個不同的 token 
 
 ---
 
-## 16. 新架構的中階（`agent_core/mid.py`；D10 第 3 步的 3a，還沒接上主對話）
+## 16. 新架構的中階（`agent_core/mid.py`、`judge.py`；D10 第 3 步（3a、3b），還沒接上主對話）
 
-一個領域收到問題之後挑一個寫好的做法（複合技能），程式照它排出決策圖交給低階（第 15 節）執行，出了狀況照它寫的回退換做法，最後由程式照收據
-整理報告。現在只有測試與評測在用（主對話依報告回答是第 4 步）。為什麼、取捨與實測在〈設計筆記〉2.30。
+一個領域收到問題之後挑一個寫好的做法（複合技能），程式照它排出決策圖交給低階（第 15 節）執行，出了狀況照它寫的回退換做法或換技能；
+要看內容才能決定下一步的地方是判斷節點：模型看原文挑出回答問題的行、從技能列的路選一條，程式核對之後照那條路接著排。最後由程式照收據
+與挑出的行整理報告。現在只有測試與評測在用（主對話依報告回答是第 4 步）。為什麼、取捨與實測在〈設計筆記〉2.30（3a）、2.32（3b）。
 
 **領域**：`skills_system/<領域>/SKILLS.md`——第一行是名稱，接著是領域的說明（含「不包含」什麼），`## 複合技能` 與 `## 工具` 兩節各列一行一個。
-第一版是 `repo_analysis`（找檔案、讀文件、分析程式；工具 8 個），複合技能兩個：
+第一版是 `repo_analysis`（找檔案、讀文件、分析程式；工具 8 個），複合技能五個：
 - `py_usage`（答得了：位置、數量）：Python 的名稱定義在哪、哪裡用到——`search_text` 找出提到它的 .py 檔，`code_ast_reader --refs` 每個檔案照語法分出
-  定義、呼叫、import 與所在的函式；回退：範圍裡找不到就到範圍外找一次、命中太多就問要縮小到哪個子目錄（附各子目錄的筆數）。
+  定義、呼叫、import 與所在的函式；回退：範圍裡的 .py 找不到時先看範圍裡的 C++ 檔（有就換成 `cpp_symbol`），沒有再到範圍外找一次；
+  命中太多就問要縮小到哪個子目錄（附各子目錄的筆數）。
 - `count_in_scope`（答得了：數量）：範圍裡一段文字出現在幾行、或名稱符合的檔案有幾個；回退：搜尋逾時就問範圍。
+- `doc_lookup`（答得了：內容、位置）：照指定的一份文件回答——`search_text --rank` 在文件裡搜問題提到的名稱，判斷節點挑出回答問題的行；
+  可以接著在同一份文件找原文提到的編號或名稱（`follow`）、看某一行前後（`wider`：`view_file --around`）；回退：文件裡沒有一行提到就問要找什麼字。
+- `cpp_symbol`（答得了：位置、內容）：C++ 的類別、函式、成員或設定——在範圍裡的 C++ 檔搜名稱（附前後 2 行），判斷挑出定義、宣告、呼叫或設定的值；
+  可以接著找原文提到的成員函式或型別、看某一行前後；回退：範圍裡沒有就在整個工作目錄找一次。
+- `config_trace`（答得了：內容、位置）：參數、topic、節點或 launch 檔在 launch、設定檔（yaml、xml）與程式（.py、C++）裡怎麼接起來——搜名稱，
+  判斷一站一站接著找、看某一行前後；回退同 `cpp_symbol`。
 
 **複合技能的規格**（`<領域>/<名稱>.md`，寫法〈技能撰寫規範〉1.2）：frontmatter 的 `answers`（答得了問題要的哪幾種：位置、數量、內容）、
-`topology`（`sub_skills`；`depends_on` 現在一律要空的）、`parameters`（名稱、種類 `name`／`text`／`path`／`glob`／`names`、必填的寫 `ask`、
-有預設的寫 `default`、路徑可以寫 `fetch`）；正文的〈什麼時候用〉〈策略與 SOP〉給模型讀，〈骨架〉（決策圖的樣板：節點的參數寫 `{參數}`、
-`{"if": 參數, "args": [...]}` 有值才放、節點寫 `if` 的參數沒有值就不排；`report` 標要寫進報告的節點）與〈回退〉（`when` 比對節點的狀態、
-收據的欄位或實例超過上限，`change` 是 `add` 加節點或 `ask` 問參數，`say` 是說明）給程式讀。`load_domain` 讀的時候用 `validate_skill` 檢查
-（參數的寫法、骨架的工具都在 `sub_skills` 裡、報告的工具有整理的方法、最後用假的參數排一次圖交給低階的 `validate`），有問題的領域不執行。
+`topology`（`sub_skills`；`depends_on` 現在一律要空的）、`parameters`（名稱、種類 `name`／`text`／`path`／`glob`／`names`／`words`、必填的寫 `ask`、
+有預設的寫 `default`、路徑可以寫 `fetch`：`{value}` 是原文的最後一段、`{stem}` 是它去掉副檔名）；正文的〈什麼時候用〉〈策略與 SOP〉給模型讀，
+〈骨架〉與〈回退〉給程式讀：
+- 〈骨架〉是決策圖的樣板：節點的參數寫 `{參數}`（搜尋的字 `words` 是清單，用 `|` 接成 search_text 的一個參數）、`{"if": 參數, "args": [...]}` 有值才放、
+  節點寫 `if` 的參數沒有值就不排；`report` 標要寫進報告的節點。最多一個判斷節點（`kind: judgment`）：`goal`、`depends_on`（判斷讀得懂的工具節點：
+  `search_text`、`view_file`）、`labels`（挑出的行可以標的種類）、`branches`（看完之後可以選的路：`id`、`say`、`need_lines`（選這條要有挑出的行）、
+  `params`（要填的值：`words` 搜尋的字、`path` 原文裡的檔案、`line` 那個檔案列出的行號）、`add`（接著做的工具節點，參數用這條路的值；
+  沒有 `add` 的路是結束，至少要有一條））。
+- 〈回退〉：`when` 比對節點的狀態、收據的欄位或實例超過上限；`change` 是 `add`（加節點）、`ask`（問參數）或 `switch`（換成同一個領域的另一個
+  複合技能，`params` 寫參數的對應）；`say` 是說明。
+
+`load_domain` 讀的時候用 `validate_skill` 檢查（參數的寫法、骨架的工具都在 `sub_skills` 裡、報告的工具有整理的方法、判斷節點與每條路、
+最後用假的參數排一次圖（每條路加的節點也排）交給低階的 `validate`），換技能的對象與參數的種類用 `_switch_problems` 檢查；有問題的領域不執行。
 
 **流程**（`Worker(agent, 領域).start(問題, 子目標)`；停下來要問人時 `resume(編號, approve=…)`（確認關卡）或 `resume(編號, answer=…)`（參數））：
 1. 挑技能（`_select`，模型一次，`prompts/mid/select.md`）：先寫理解，再寫問題要的是哪幾種（位置、數量、內容，`KINDS`），再選一個複合技能；
    沒有做得到的寫 `none`、不屬於這個領域寫 `out_of_domain`。程式核對選的在清單裡，而且它的 `answers` 包含問題要的每一種，答不了也是 `no_skill`。
 2. 合約（`_contract`，`prompts/mid/contract.md`）：每個參數抄一段原文並寫值；`verify_param` 核對原文一字不改地在問題裡、值對得上原文
-   （名稱要原樣在原文裡；路徑的每一段都是原文裡的名稱；文字與檔案名稱的寫法每一段英數字都在原文裡）。沒過的與漏了的必填參數交回修一次
-   （`contract_fix`），還是沒過的不用。
-3. 補參數（`_complete`）：沒提到的用預設值；路徑在工作目錄找不到時照 `fetch` 查一次（另開一個低階的工作；路徑結尾一樣的剛好一個就自己補，
-   記在 `auto_filled`），好幾個或沒有就問使用者（附候選）；必填的沒提到也問。使用者的回答由 `check_answer` 核對（路徑要找得到）。
+   （名稱要原樣在原文裡；路徑的每一段都是原文裡的名稱；文字與檔案名稱的寫法每一段英數字都在原文裡；名稱清單與搜尋的字可以抄原文裡不同地方的
+   幾段，用「、」分開，搜尋的字每一個都原樣在原文裡、沒有 `|` 與括號）。沒過的與漏了的必填參數交回修一次（`contract_fix`），還是沒過的不用。
+3. 補參數（`_complete`）：沒提到的用預設值；路徑在工作目錄找不到時照 `fetch` 查一次（另開一個低階的工作；路徑結尾一樣、或檔名就是查的名稱而且
+   原文前面的目錄照順序都在路徑裡的剛好一個就自己補，記在 `auto_filled`），好幾個或沒有就問使用者（附候選）；必填的沒提到也問。使用者的回答由
+   `check_answer` 核對（路徑要找得到）。
 4. 排圖（`expand_nodes`）：〈骨架〉代入參數就是決策圖，模型不寫節點。
 5. 執行：交給 `edg.Executor`（第 15 節）；停在確認關卡時中階也停下來等。
 6. 第 2 級（`_after`）：照〈回退〉列的順序，取第一個條件符合、還沒用過的。`add` 在圖上加節點，交給低階的 `replan` 接著跑同一個工作；
-   `ask` 問使用者，回答之後照新的參數重新排圖（之前用過的回退可以再用）。加的節點全都跑過＝不收斂，不重排；重排超過 `MID_REPLAN_MAX` 次就熔斷。
-7. 報告（`_finish`、`_report`）：程式照收據整理標了 `report` 的節點（`REPORTERS`：`code_ast_reader` 的定義、呼叫、import 與每一處，
-   `search_text` 每個檔案的筆數與總數，`find_file` 的檔案清單；各附 `#編號`），再加用了哪些回退、沒有做完的節點、自己補的參數。
+   `ask` 問使用者，回答之後照新的參數重新排圖（之前用過的回退可以再用）；`switch` 換技能（`_switch`）：換過去的技能答不了問題要的每一種就不換，
+   否則參數照對應帶過去（名稱換成清單），照它補參數、照它的骨架重排（算一次重排，記在 `switched`）。加的節點全都跑過＝不收斂，不重排；
+   重排超過 `MID_REPLAN_MAX` 次就熔斷。
+7. 判斷（`_judgment`；回退照舊先比）：低階跑到判斷節點就停下來交回。
+   1. 原文（`judge.rows`）：判斷節點依賴的節點，每個實例最後一次嘗試是一份（`#編號`）；行由程式照收據從檔案讀（search_text 命中的行與前後行、
+      view_file 看的那一段），不解析給模型的文字。交給模型的最多 `MID_JUDGE_CHARS` 字（`judge.select`：含最多個搜尋字的命中先放，前後行跟著它；
+      放不下的寫明省略了哪些檔案幾行）。全部 0 筆就不判斷（`no_input`）。
+   2. 模型一次（`_judge`，`prompts/mid/judge.md`）：看問題、子目標、節點的 goal、之前挑出的行、這個工作已經找過的字與原文，挑出回答問題的行
+      （來源 `#編號`、檔案、行號、一字不改的片段、標籤，最多 `MID_JUDGE_LINES` 行）、選一條路、填那條路的值。
+   3. 程式核對（`judge.check_line`、`check_params`、`_stale`）：片段要在那份原文的某一行裡（不看格式：全形半形、Markdown 的 `*`、`` ` ``、
+      表格的 `|`、空白；可以是同一行裡照順序的幾段）；內容一樣的行用模型寫的行號分；整行內容由程式填。值要在原文裡（搜尋的字原樣出現、
+      檔案是原文裡的、行號是那個檔案列出的）；選的路照值排出來要有新的結果（字都找過、加的節點都跑過的不算）。沒過的交回修一次
+      （`judge_fix`：只重寫沒過的；值沒過時可以重選路）。
+   4. 結束的路（沒有 `add`）就結束（`need_lines` 的路要有挑出的行，之前的判斷挑的也算）；有 `add` 的（`_next_round`）照值加節點（id 加上
+      `_第幾次`）、後面接同一個判斷（`template` 記原本的節點），交給低階重排（跑過的不重跑）；判斷過的判斷節點留在圖上。判斷每個工作最多
+      `MID_JUDGE_MAX` 次（另外算，不佔重排的次數），用完了還要接著做就熔斷；排下一版之前再核對一次有沒有新的結果，沒有就停（死路）。
+8. 報告（`_finish`、`_report`）：程式照收據整理標了 `report` 的節點（`REPORTERS`：`code_ast_reader` 的定義、呼叫、import 與每一處，
+   `search_text` 每個檔案的筆數與總數，`find_file` 的檔案清單；各附 `#編號`）；判斷挑出的行（檔案:行號、標籤、`#編號`、整行；每一次的合起來）
+   與每一次判斷的經過（選的路、值、挑了幾行、沒過的、結果、理由；`_render_judgments`）；再加用了哪些回退與換技能、沒有做完的節點、自己補的參數。
 
-**結果的狀態**：`done`（做完）、`dead_end`（照回退也沒有可以換的做法）、`circuit_break`（熔斷）、`no_skill`（沒有適合的複合技能）、
-`out_of_domain`（不屬於這個領域）、`failed`（挑技能的模型沒有回覆或選了清單外的、排出的圖沒過檢查、領域的規格有問題）、`need_user`（等 `resume`）。
+**結果的狀態**：`done`（做完）、`dead_end`（照回退或判斷都沒有可以接著做的）、`circuit_break`（熔斷：重排超過 `MID_REPLAN_MAX` 次，或判斷超過
+`MID_JUDGE_MAX` 次）、`no_skill`（沒有適合的複合技能）、`out_of_domain`（不屬於這個領域）、`failed`（挑技能或判斷的模型沒有回覆或選了清單外的、
+排出的圖沒過檢查、領域的規格有問題）、`need_user`（等 `resume`）。
 
-**還沒有的**（3b，跟第一個用到它們的複合技能一起做）：判斷節點（要看內容才能決定下一步）與 `depends_on`（硬性前置的複合技能），現在 `validate_skill` 會擋下來。
+**還沒有的**：`depends_on`（硬性前置的複合技能；這個領域都是唯讀的，目前的技能用不到，有技能用到時再做），現在 `validate_skill` 會擋下來；
+判斷還做不好的（多站的追查、打開原文提到但還沒列出的檔案）記在〈待辦清單〉4c。
 
-**存檔**：`logs/mid_jobs/<編號>/`（第 8 節）；每一版的圖存在 `graphs`（為什麼排這一版：第一版、哪個回退加了哪些節點、使用者回答了什麼；跑完時每個節點的狀態與 `#編號`），
-工具的執行在 `edg_job` 指的 `logs/edg_jobs/`。**常數**：`MID_JOBS_KEEP`、`MID_REPLAN_MAX`、`MID_MODEL`、`MID_REPORT_LINES`（第 10 節）。
+**存檔**：`logs/mid_jobs/<編號>/`（第 8 節）；每一版的圖存在 `graphs`（為什麼排這一版：第一版、哪個回退加了哪些節點、換了技能、判斷選了哪條路、
+使用者回答了什麼；跑完時每個節點的狀態與 `#編號`），換技能在 `switched`、判斷在 `judgments`，工具的執行在 `edg_job` 指的 `logs/edg_jobs/`。
+**常數**：`MID_JOBS_KEEP`、`MID_REPLAN_MAX`、`MID_MODEL`、`MID_REPORT_LINES`、`MID_JUDGE_*`（第 10 節）。
 **測試**：`evals/mid/`（第 12 節）。

diff --git a/doc/README.md b/doc/README.md
@@ -24,7 +24,7 @@
 | ![一回合](images/AI_agent_harness的狀態轉移.png) | `diagrams/AI_agent_harness的狀態轉移.puml` | 一回合的狀態機；`/analyze` 直接指定；確認關卡擋哪些；Dispatch 的偽技能；附圖時的視覺提取（1b），以及附圖分析在 prompt、壓縮、下一句話裡的位置 |
 | ![工具回傳管線](images/AI_agent_harness的工具回傳管線.png) | `diagrams/AI_agent_harness的工具回傳管線.puml` | 原文存檔（第一版領域的腳本另外寫收據給程式讀）→ 規格文件、提煉過的、程式整理好的報告（數據分析）直接給原文 → 太長的提煉（程式切段 → 每段一個 worker → 整合，程式核對行號）→ 檢索清單 → result_recall；退路（`/summarize off`、提煉沒成功、重點不比原文短）；中段是附圖的影像分析（提取 → 存成 #編號 → 〔附圖分析〕進清單 → 併進訊息），同一套 recall |
 | ![數據分析的流程](images/數據診斷的流程.png) | `diagrams/數據診斷的流程.puml` | 數據分析（事實報告）的完整流程（活動圖）：收到問題 → 資料預備與事實（超過 3 分鐘先切；字串裡的 JSON 展開成 Key；程式量全部 Topic 的全部 Key、整理成有編號的事實）→ 重點（程式照規則寫：每個重要的時間點一則）→ 報告 → 主對話依報告回答與程式的核對（之後的回合也核對）；藍＝程式、橘＝模型、綠＝程式核對，底部是程式做的與模型做的；第九輪的流程圖在 `archive/root_cause_reference/doc/` |
-| ![prompts 與流程的對應](images/prompts與流程的對應.png) | `diagrams/prompts與流程的對應.puml` | 給模型的字都在 `prompts/`：主對話（AGENT.md、context_modes/、Memory.md、harness/）與各種獨立 session（summary/、extract/、vision/、新架構的第 1 級修正 edg/、中階的挑技能與合約 mid/）各用哪些檔案，誰組 prompt、輸出的 schema；`skills_system/` 的 SKILLS.md、技能規格、新架構的領域與複合技能（〈骨架〉〈回退〉給程式）也是模型會讀的；留在程式裡的只有程式的輸出（工具結果、報告、[ERROR]）與程式認的標記；各 session 用哪個模型 |
+| ![prompts 與流程的對應](images/prompts與流程的對應.png) | `diagrams/prompts與流程的對應.puml` | 給模型的字都在 `prompts/`：主對話（AGENT.md、context_modes/、Memory.md、harness/）與各種獨立 session（summary/、extract/、vision/、新架構的第 1 級修正 edg/、中階的挑技能、合約與判斷 mid/）各用哪些檔案，誰組 prompt、輸出的 schema；`skills_system/` 的 SKILLS.md、技能規格、新架構的領域與複合技能（〈骨架〉〈回退〉給程式，判斷節點的 goal、種類與每條路的說明給判斷的模型）也是模型會讀的；留在程式裡的只有程式的輸出（工具結果、報告、[ERROR]）與程式認的標記；各 session 用哪個模型 |
 
 改完 `.puml` 後重新產生 PNG，一律用本機離線渲染（不要用線上的 PlantUML 伺服器：圖的內容會離開這台機器）。`~/tools/plantuml/` 放了 Temurin JRE 21 與
 plantuml.jar（1.2026.8，從 Maven Central 下載）；這台機器沒有 Microsoft JhengHei，字型換成系統的 Noto Sans CJK TC 再渲染
